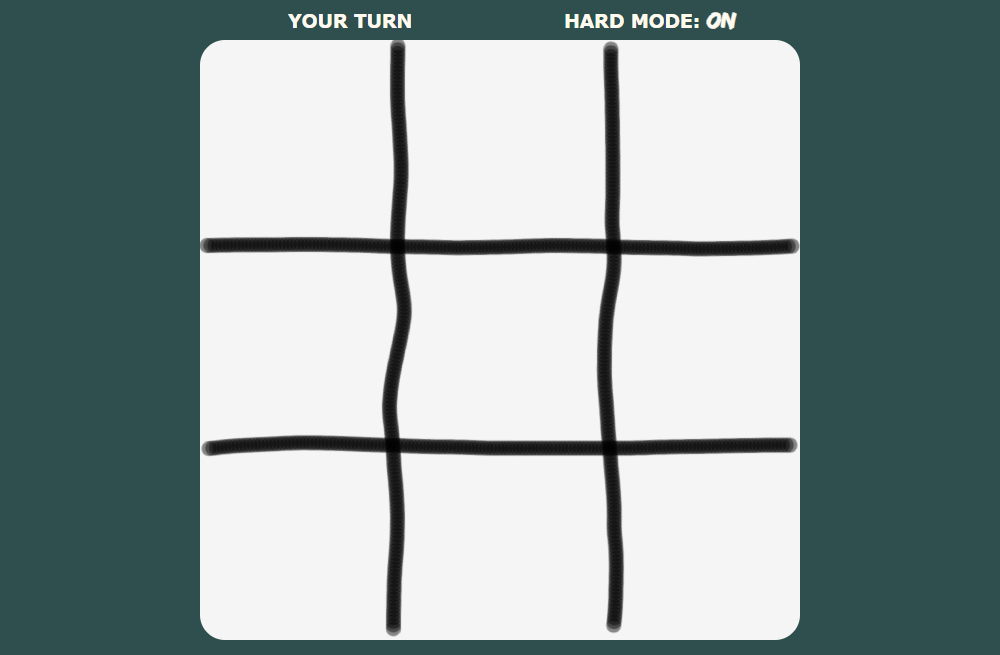
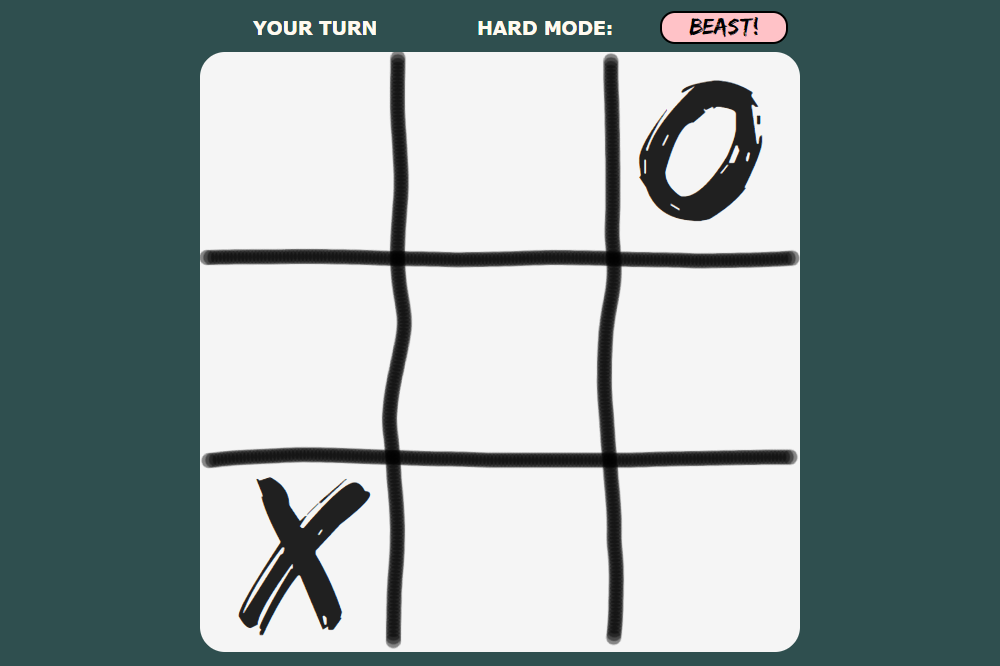
Update readme

diff --git a/README.md b/README.md
@@ -23,8 +23,9 @@ It is designed to be responsive and accessible on a range of devices, making it 
 - __Colour Scheme__
 
   - I wanted to use black and white colours for the game, as when we played as children it was mostly black ink on white paper, so I have a slightly off-white colour called whitesmoke (#F5F5F5) to represent a piece of paper.
-  - The noughts and crosses on the game are black (#000000) to provide high contrast represent the black ink.
+  - The noughts and crosses on the game are not quite the blackest of black (#202020) but it matches the drawn lines colour and provides a high contrast to represent black ink.
   - The game lines were created with black again and slightly fuzzy, again to make it feel to the user that it's hand drawn and they're playing with a friend.
+  - The difficulty toggle switch has a background with the same shade of pink that the modal has (#FFC2C7) and is there to stand out and invite the user to change modes.
   - I looked at a lot of background colours and felt the darkslategray (#2F4F4F) colour provided good contrast between the text, the gameboard and the background. And it's also nice and comfortable to look at, not being too bright or too dark.
   - The text colour is floralwhite (#FFFAF0) which is another off-white colour to just soften the brightness of a hard bright white a little and allows the user to keep playing without it becoming a strain.
   - The background colours do change depending on the outcome of the game. If the game is a draw, the background transitions into black. If the computer wins it turns bright red for a moment. But if the user wins it briefly becomes a kaleidoscope of bright and contrasting colours to celebrate.
